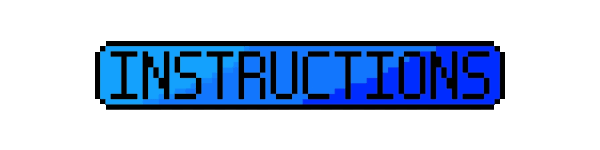
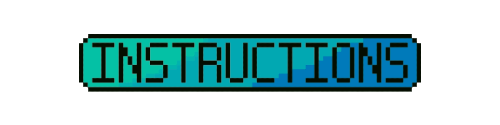
Polish main screen

Changed region(s): [[0.15, 0.264, 0.84, 0.744]]

diff --git a/tank-wars/game/instruction_view.py b/tank-wars/game/instruction_view.py
@@ -8,7 +8,7 @@ class MainView(arcade.View):
     
     def __init__(self):
         super().__init__()
-
+        self.texture = arcade.load_texture(constants.CAMO)
         self.ui_manager = UIManager()
         
 
@@ -31,12 +31,12 @@ class MainView(arcade.View):
         self.settings_button = Settings_Button(game = self.window, normal_texture= self.settings_texture)
 
         self.play_texture = arcade.load_texture(constants.PLAY_SPRITE)
-        self.play_button = Button(GameView(), self.window, normal_texture= self.play_texture)
+        self.play_button = Button(GameView(), self.window, normal_texture= self.play_texture, y = constants.BUTTON_Y + 20)
 
 
         self.instruct_texture = arcade.load_texture(constants.INSTRUCT_SPRITE)
         self.instruct_button = Button(InstructionView(), self.window, normal_texture = self.instruct_texture, 
-        y = constants.BUTTON_Y - 100)
+        y = constants.BUTTON_Y - 70)
 
         self.ui_manager.add_ui_element(self.settings_button)
         self.ui_manager.add_ui_element(self.play_button)
@@ -48,15 +48,11 @@ class MainView(arcade.View):
         arcade.start_render()
         self.texture.draw_sized(constants.SCREEN_WIDTH / 2, constants.SCREEN_HEIGHT / 2,
                                 constants.SCREEN_WIDTH, constants.SCREEN_HEIGHT)
-        arcade.draw_text("Tank Wars", constants.SCREEN_WIDTH / 2, constants.SCREEN_HEIGHT / 2,
-                         arcade.color.WHITE, font_size=50, anchor_x="center")
-        # arcade.draw_text("Click to advance", constants.SCREEN_WIDTH / 2, constants.SCREEN_HEIGHT / 2-75,
-        #                  arcade.color.WHITE, font_size=20, anchor_x="center")
-
+        # arcade.draw_text("Tank Wars", constants.SCREEN_WIDTH / 2, constants.SCREEN_HEIGHT / 2,
+        #                  arcade.color.WHITE, font_size=50, anchor_x="center")
 
 class Button(UIImageButton):
-    def __init__(self, view, game, x = constants.PLAY_X, y = constants.BUTTON_Y,
-    height = constants.BUTTON_HEIGHT, width = constants.BUTTON_WIDTH, text = "",
+    def __init__(self, view, game, x = constants.PLAY_X, y = constants.BUTTON_Y,  text = "",
     normal_texture = None):
         super().__init__(center_x= x, center_y= y,
         text = text, normal_texture = normal_texture)
@@ -71,8 +67,7 @@ class Button(UIImageButton):
 
 
 class Settings_Button(UIImageButton):
-    def __init__(self, game, x = constants.SETTINGS_X, y = constants.SETTINGS_Y,
-    height = constants.BUTTON_HEIGHT + 50, width = constants.BUTTON_WIDTH + 50, normal_texture = None):
+    def __init__(self, game, x = constants.SETTINGS_X, y = constants.SETTINGS_Y, normal_texture = None):
         super().__init__(center_x= x, center_y= y, normal_texture= normal_texture)
         self.center_x = x
         self.center_y = y
@@ -89,6 +84,7 @@ class InstructionView(arcade.View):
     def __init__(self):
         super().__init__()
         self.ui_manager = UIManager()
+        self.texture = arcade.load_texture(constants.INSTRUCTION_BKG)
 
     def on_show(self):
         self.setup()
@@ -100,9 +96,9 @@ class InstructionView(arcade.View):
     def on_draw(self):
         """ Draw this view """
         arcade.start_render()
-        arcade.draw_text("instructions text", constants.SCREEN_WIDTH / 2, constants.SCREEN_HEIGHT / 2, 
-                        color = arcade.color.AERO_BLUE, anchor_x= 'center')
-    
+        self.texture.draw_sized(constants.SCREEN_WIDTH / 2, constants.SCREEN_HEIGHT / 2,
+                                constants.SCREEN_WIDTH, constants.SCREEN_HEIGHT)
+
     def setup(self):
         self.ui_manager.purge_ui_elements()
 
@@ -113,12 +109,14 @@ class InstructionView(arcade.View):
         self.ui_manager.add_ui_element(self.back_button)
     
     def on_show_view(self):
-        arcade.set_background_color(arcade.color.ANTIQUE_BRONZE)
+        arcade.load_texture(constants.CAMO)
 
 
 class SettingsView(arcade.View):
     def __init__(self):
         super().__init__()
+        self.texture = arcade.load_texture(constants.PLACEHOLDER)
+
         self.ui_manager = UIManager()
 
     def on_show(self):
@@ -139,8 +137,10 @@ class SettingsView(arcade.View):
     def on_draw(self):
         """ Draw this view """
         arcade.start_render()
+        self.texture.draw_sized(constants.SCREEN_WIDTH / 2, constants.SCREEN_HEIGHT / 2,
+                                constants.SCREEN_WIDTH, constants.SCREEN_HEIGHT)
         arcade.draw_text("Settings text", constants.SCREEN_WIDTH / 2, constants.SCREEN_HEIGHT / 2, 
                         color = arcade.color.AERO_BLUE, anchor_x= 'center')
     
     def on_show_view(self):
-        arcade.set_background_color(arcade.color.ANTIQUE_BRONZE)
+        arcade.load_texture(constants.CAMO)

diff --git a/tank-wars/game/constants.py b/tank-wars/game/constants.py
@@ -21,7 +21,7 @@ MAIN_SCREEN_SOUND = assets / 'sounds' / 'IntroScreen.mp3'
 POWERUPS_SOUND = assets / 'sounds' / 'powerup.ogg'
 POWERDOWN_SOUND = assets / 'sounds' / 'powerdown.flac'
 
-DEFAULT_VOLUME = 0.0
+DEFAULT_VOLUME = 0.2
 
 #sprites
 #ground
@@ -37,7 +37,7 @@ TANK_SPEED = 2
 TANK_ANGLE_SPEED = 2
 #Player 1
 PLAYER1_X = randint(450, 810)
-PLAYER1_SPRITE = ":resources:images/topdown_tanks/tank_blue.png"
+PLAYER1_SPRITE = ":resources:images/topdown_tanks/tank_dark.png"
 # PLAYER1_SPRITE = assets / 'tank-pack' / 'tanks_tankGrey1.png'
 MAP = assets / 'map.tmx'
 #player 2
@@ -47,7 +47,7 @@ PLAYER2_X = randint(50, 450)
 
 GAME_OVER = assets / 'game-over.jpg'
 BACKGROUND = assets / 'background.png'
-CAMO = assets / 'camo.png'
+CAMO = assets / 'main-bkg.png'
 
 WALLS = assets / '1bitpack' / 'Tilemap' / 'sample_urban2.tmx'
 TILE_SCALING = 1.5
@@ -76,9 +76,8 @@ HEALTH_NUMBER_OFFSET_Y = -25
 #Buttons
 
 BUTTON_Y = 175
-
-BUTTON_WIDTH = 48
-BUTTON_HEIGHT = 48
+BUTTON_WIDTH = 32
+BUTTON_HEIGHT = 32
 
 #Play Buttons
 
@@ -86,11 +85,12 @@ PLAY_X = 425
 
 PLAY_SPRITE = assets / "startButton.png"
 
+PLACEHOLDER = assets / 'bkg.png'
 
 #instructions button
 
 INSTRUCT_X = 100
-
+INSTRUCTION_BKG = assets / 'instructions.png'
 INSTRUCT_SPRITE = assets / "instructionsButton.png"
 
 #Setting Buttons
@@ -99,25 +99,16 @@ SETTINGS_X = 815
 SETTINGS_Y = 495
 
 SETTINGS_SPRITE = assets / 'settings.png'
-SETTINGS_WIDTH = 100
-SETTINGS_HEIGHT = 100
+SETTINGS_WIDTH = 50
+SETTINGS_HEIGHT = 50
 
 #back button
 
 BACK_SPRITE = assets / 'backButton.png'
 
-BACK_X = 125
+BACK_X = 780
 
-BACK_Y = 50
-
-#explosion
-# EXPLOSION_TEXTURE_LIST = []
-# columns = 16
-# count = 60
-# sprite_width = 256
-# sprite_height = 256
-# file_name = ":resources:images/spritesheets/explosion.png"
-
+BACK_Y = 490
 
 #time
 FRAME_LENGTH = 0.1

diff --git a/tank-wars/game/game_over_view.py b/tank-wars/game/game_over_view.py
@@ -2,7 +2,15 @@ import arcade
 from game import constants
 
 class GameOverView(arcade.View):
-    """ View to show when game is over """
+    """ View to show when game is over 
+    Stereotype:
+        Information Holder
+    Attributes:
+
+    Contributors:
+        Reed Hundsaker
+        Isabel Aranguren
+    """
 
     def __init__(self, loser):
         """ This is run once when we switch to this view """
@@ -19,7 +27,7 @@ class GameOverView(arcade.View):
                                 constants.SCREEN_WIDTH, constants.SCREEN_HEIGHT)
         arcade.draw_text(f"{self.win_text}", constants.SCREEN_WIDTH / 2, constants.SCREEN_HEIGHT / 4-75,
                          arcade.color.WHITE, font_size=20, anchor_x="center")
-        arcade.draw_text(f"Blue Tank: {self.window.score.get_score_player1()} | Red Tank: {self.window.score.get_score_player2()}", 
+        arcade.draw_text(f"Black Tank: {self.window.score.get_score_player1()} | Red Tank: {self.window.score.get_score_player2()}", 
         constants.SCREEN_WIDTH / 2,
         constants.SCREEN_HEIGHT / 6 -75,
         arcade.color.WHITE, 

diff --git a/tank-wars/game/gameview.py b/tank-wars/game/gameview.py
@@ -14,7 +14,8 @@ import time
 
 
 class GameView(arcade.View):
-    """ Game view for Tank Wars
+    """ Game view for Tank Wars. The responsibility of 
+    this class of objects is to control the sequence of play
     Stereotype:
         Controller
     Attributes:
@@ -29,6 +30,7 @@ class GameView(arcade.View):
         Adrianna Lund
         Isabel Aranguren
         Jordan McIntyre
+        Juliano Nascimiento
     """
 
     def __init__(self):

diff --git a/tank-wars/__main__.py b/tank-wars/__main__.py
@@ -4,7 +4,6 @@ from game.gameview import GameView
 from game.instruction_view import MainView
 from game.score import Score
 
-
 class Window(arcade.Window):
     def __init__(self):
         super().__init__(constants.X_CONSTANT, constants.Y_CONSTANT, constants.TITLE)

diff --git a/tank-wars/game/explosion.py b/tank-wars/game/explosion.py
@@ -4,7 +4,6 @@ import game.constants as constants
 class Explosion(arcade.Sprite):
     def __init__(self, texture_list):
         super().__init__()
-
         self.current_texture = 0
         self.textures = texture_list
         
